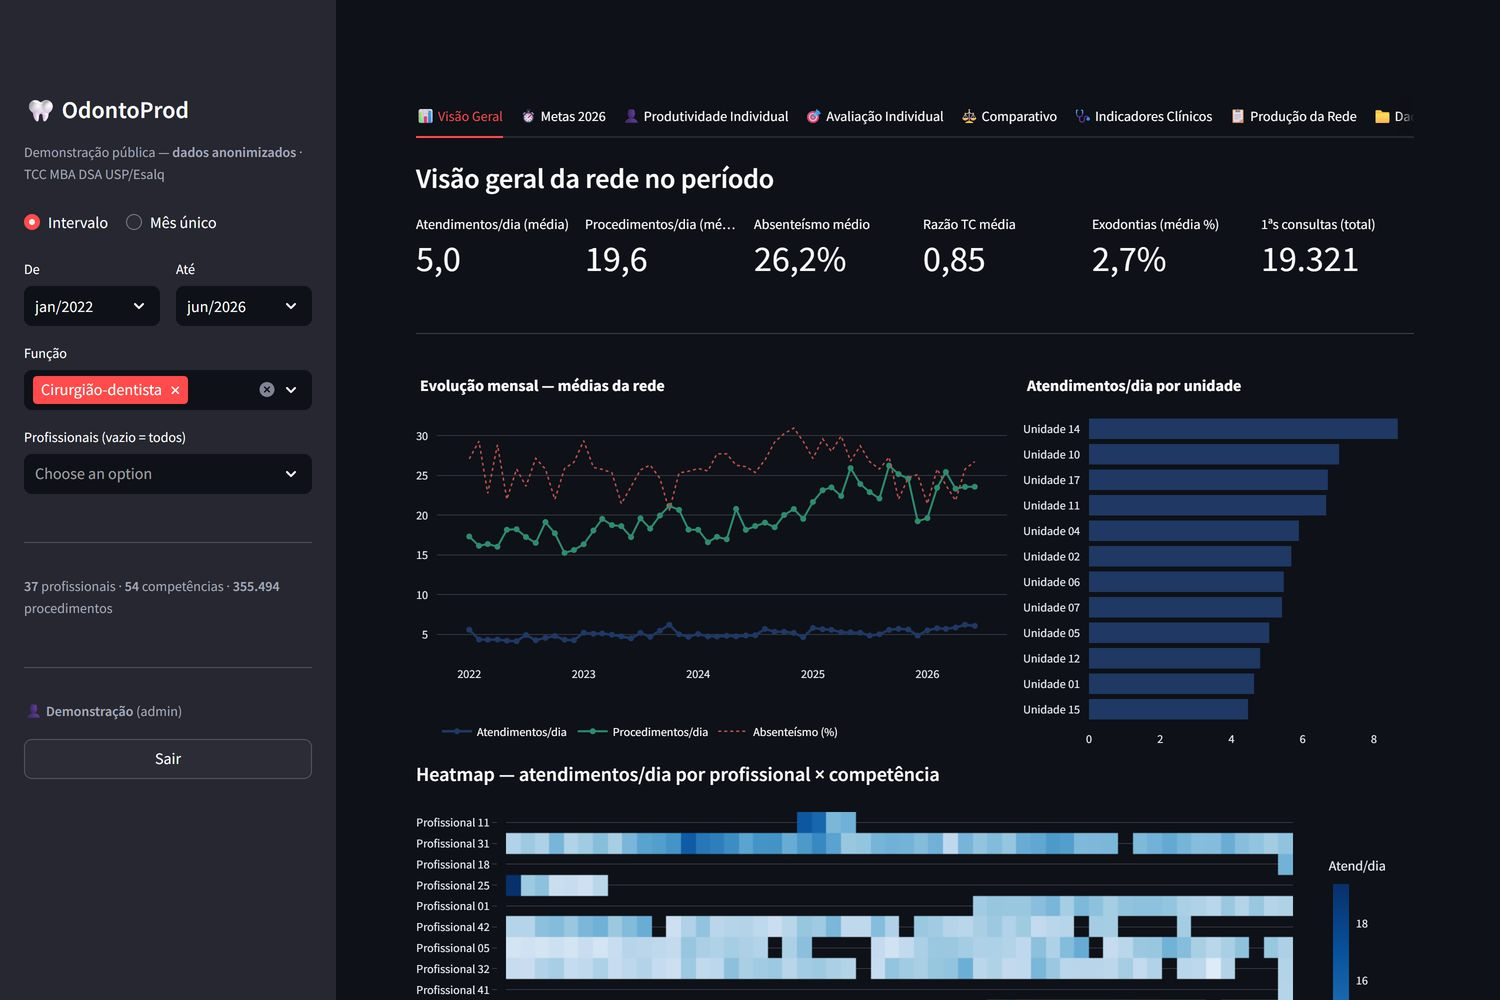
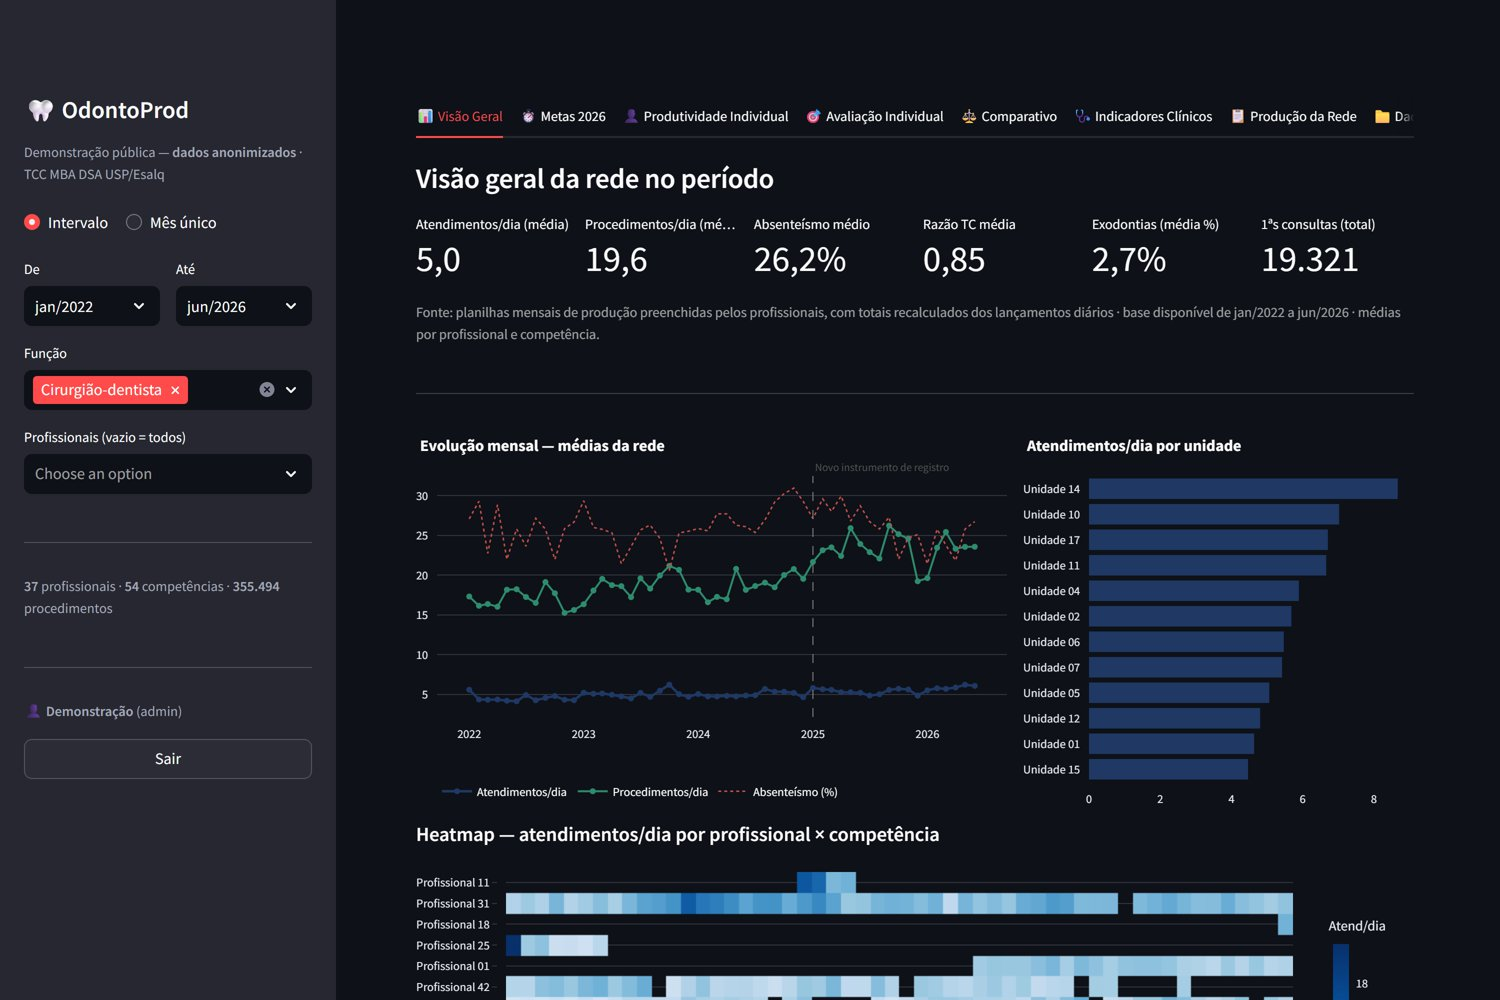
Visão Geral: fonte da base e marco do novo instrumento de registro
A tela de abertura passa a declarar a fonte e o período da base, e o
gráfico de evolução marca jan/2025, início da transição para o Mapa de
Produção Odontológica (src/indicadores/marcos.py, com testes).

Changed region(s): [[0.276, 0.372, 0.9507, 1.0], [0.276, 0.31, 0.92, 0.341], [0.276, 0.372, 0.46, 0.403]]

diff --git a/app.py b/app.py
@@ -16,7 +16,7 @@ import streamlit as st
 
 sys.path.insert(0, str(Path(__file__).parent))
 from src.auth import barra_usuario, exigir_login
-from src.indicadores import metas
+from src.indicadores import marcos, metas
 from src.indicadores.grupos import ORDEM_GRUPOS, aplicar_grupos
 from src.indicadores.motor import calcular_serie
 from src.relatorios.avaliacao_pdf import gerar_pdf_avaliacao
@@ -166,6 +166,13 @@ with aba1:
     c5.metric("Exodontias (média %)", kpi_fmt(f["pct_exodontias"].mean(), 1, "%"))
     c6.metric("1ªs consultas (total)", kpi_fmt(f["primeiras_consultas"].sum(), 0))
 
+    st.caption(
+        f"Fonte: planilhas mensais de produção preenchidas pelos "
+        f"profissionais, com totais recalculados dos lançamentos diários · "
+        f"base disponível de {fmt_comp(competencias[0])} a "
+        f"{fmt_comp(competencias[-1])} · médias por profissional e "
+        f"competência.")
+
     st.divider()
     col_a, col_b = st.columns([3, 2])
 
@@ -185,6 +192,14 @@ with aba1:
         fig.add_scatter(x=serie["competencia"], y=serie["absent"],
                         name="Absenteísmo (%)", mode="lines",
                         line=dict(color="#c0504d", width=1.5, dash="dot"))
+        for marco in marcos.no_intervalo(ini, fim):
+            fig.add_shape(type="line", x0=marco["competencia"],
+                          x1=marco["competencia"], y0=0, y1=1, yref="paper",
+                          line=dict(color="#7f7f7f", width=1, dash="dash"))
+            fig.add_annotation(x=marco["competencia"], y=1, yref="paper",
+                               text=marco["rotulo"], showarrow=False,
+                               xanchor="left", yanchor="bottom",
+                               font=dict(size=11, color="#555555"))
         fig.update_layout(title="Evolução mensal — médias da rede",
                           height=380, legend=dict(orientation="h", y=-0.25),
                           margin=dict(t=50, b=10))

diff --git a/src/indicadores/marcos.py b/src/indicadores/marcos.py
@@ -1,0 +1,26 @@
+# -*- coding: utf-8 -*-
+"""Marcos da série histórica, desenhados nos gráficos de evolução.
+
+Painel acionável liga a variação no tempo ao que pode explicá-la (Stahlman
+et al., 2025). Aqui ficam as competências em que algo externo à produção
+mudou — o instrumento de registro, uma regra de contagem — e que por isso
+podem explicar um degrau no gráfico.
+"""
+
+# A transição de template foi medida no relatório de cobertura do lote: em
+# jan/2025, 10 de 23 planilhas já estavam no modelo novo; de fev/2025 em
+# diante, quase todas.
+MARCOS = [
+    {"competencia": "2025-01",
+     "rotulo": "Novo instrumento de registro",
+     "texto": "transição para o Mapa de Produção Odontológica, adotado por "
+              "quase toda a rede a partir de fev/2025"},
+]
+
+
+def no_intervalo(ini: str, fim: str) -> list:
+    """Marcos depois de `ini` e até `fim`: os que podem gerar um degrau.
+
+    Um marco na primeira competência exibida não separa nada no gráfico.
+    """
+    return [m for m in MARCOS if ini < m["competencia"] <= fim]

diff --git a/tests/test_marcos.py b/tests/test_marcos.py
@@ -1,0 +1,21 @@
+# -*- coding: utf-8 -*-
+"""Testes dos marcos da série (src/indicadores/marcos.py)."""
+import re
+
+from src.indicadores import marcos
+
+
+def test_marco_aparece_quando_o_intervalo_o_atravessa():
+    assert marcos.no_intervalo("2024-07", "2025-06")
+    assert marcos.no_intervalo("2022-01", "2025-01")
+
+
+def test_marco_fora_ou_na_borda_inicial_nao_aparece():
+    assert not marcos.no_intervalo("2025-01", "2025-06")
+    assert not marcos.no_intervalo("2023-01", "2024-12")
+
+
+def test_marcos_tem_competencia_valida_e_rotulo():
+    for m in marcos.MARCOS:
+        assert re.fullmatch(r"\d{4}-(0[1-9]|1[0-2])", m["competencia"])
+        assert m["rotulo"] and m["texto"]

diff --git a/README.md b/README.md
@@ -103,7 +103,7 @@ As senhas ficam guardadas em PBKDF2-SHA256 com sal por senha.
 
 ## Testes
 
-151 testes automatizados cobrem o motor de indicadores, as faixas das metas,
+154 testes automatizados cobrem o motor de indicadores, as faixas das metas,
 o classificador de grupos de produção, a autenticação, os dois leitores de
 planilha (incluindo planilha com defeito proposital: mês divergente, dia fora
 de sequência, total que não fecha e linha criada à mão) e a **anonimização
